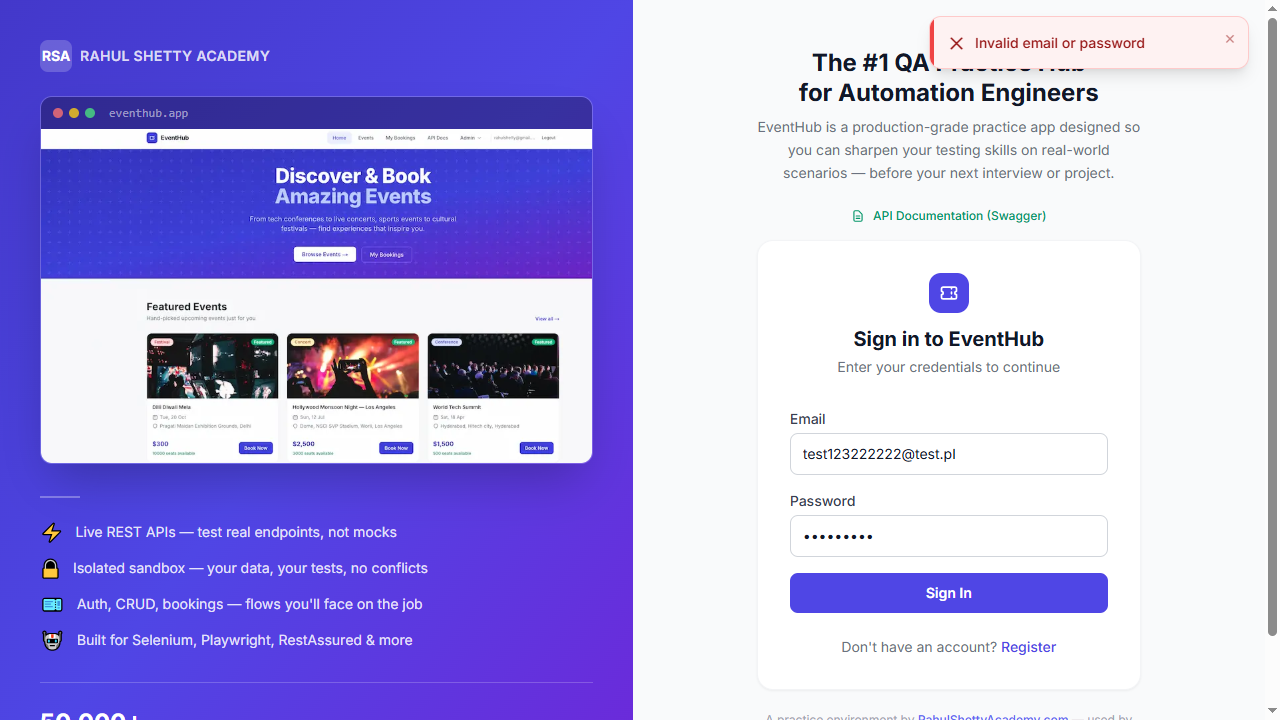
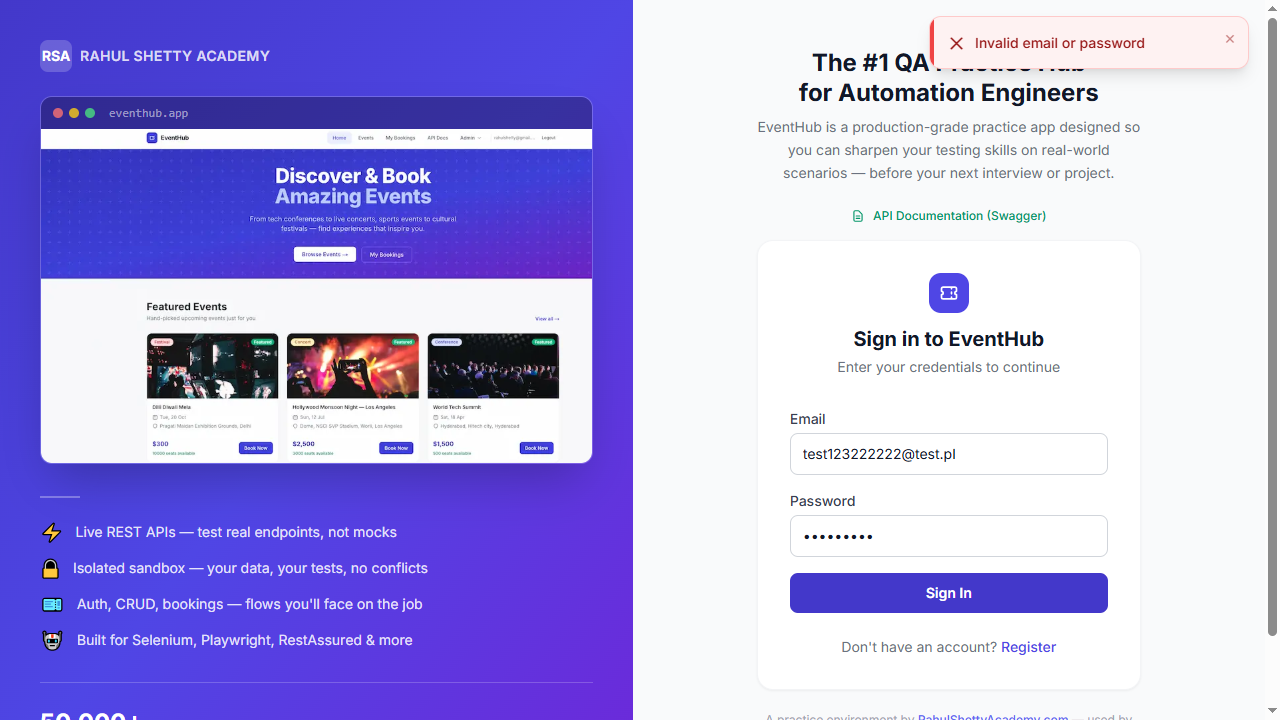
Path fix v2

Changed region(s): [[0.5938, 0.7944, 0.875, 0.8556]]

diff --git a/tests/eventhubOrder.spec.js b/tests/eventhubOrder.spec.js
@@ -1,4 +1,7 @@
 const { test, expect, request } = require("@playwright/test");
+const LoginPageAPI = require("../EventHubPO/EventHubAPI/LoginPageAPI");
+const LoginPage = require("../EventHubPO/LoginPage");
+const baseURLAPI = "https://api.eventhub.rahulshettyacademy.com/api/";
 const loginPayload = { email: "test123@email.com", password: "Test123!" };
 const AuthHelper = require("../EventHubPO/EventHubAPI/AuthHelper");
 let loginToken;
@@ -8,11 +11,15 @@ test.beforeAll(async () => {
     const apiContext = await request.newContext();
     const loginPageAPI = new LoginPageAPI(apiContext, loginPayload, baseURLAPI + "auth/login")
     loginToken = await loginPageAPI.getToken();
-    authHelper = new AuthHelper(page);
+    
 });
 
 
 test("Verify events on dashboard", async ({ page }) => {
-    await authHelper.loginToPage(page);
+    const authHelper = new AuthHelper(page, loginToken);
+    await authHelper.loginToPage();
+    const loginPage = new LoginPage(page);
+    await loginPage.goToBaseURL();
+    await expect(page).toHaveURL("/")
 
 });

diff --git a/tests/evenhubValidLoginAPI.spec.js b/tests/evenhubValidLoginAPI.spec.js
@@ -13,7 +13,7 @@ test.beforeAll(async () => {
     const loginPageAPI = new LoginPageAPI(apiContext, loginPayload, baseURLAPI + "auth/login");
     loginToken = await loginPageAPI.getToken();
     expect(loginToken).toBeTruthy();
-    authHelper = new AuthHelper(page);
+
 });
 
 test.afterAll(async () => {
@@ -21,11 +21,12 @@ test.afterAll(async () => {
 });
 
 test("User should access dashboard after API authentication", async ({ page }) => {
+    const authHelper = new AuthHelper(page, loginToken);
     await authHelper.loginToPage();
     const loginPage = new LoginPage(page);
     await loginPage.goToBaseURL();
     await expect(page).toHaveURL("/");
-    await expect(loginPage.mainDashboardBanner).toHaveText("Discover & BookAmazing Events");
+    await expect(loginPage.mainDashboardBanner).toHaveText("Amazing Events");
     await loginPage.takeScreenshot();
 });
 

diff --git a/EventHubPO/EventHubAPI/AuthHelper.js b/EventHubPO/EventHubAPI/AuthHelper.js
@@ -1,14 +1,14 @@
 class AuthHelper {
-
-    constructor(page) {
-        this.page = page
+    
+    constructor(page, loginToken) {
+        this.page = page;
+        this.loginToken = loginToken;
     }
 
-    async loginToPage(page) {
-        await page.addInitScript(value => {
-            window.localStorage.setItem("eventhub_token", value);
-        }, loginToken)
+    async loginToPage() {
+        await this.page.addInitScript(token => {
+            window.localStorage.setItem("eventhub_token", token);
+        }, this.loginToken);
     }
-
 }
 module.exports = AuthHelper;

diff --git a/EventHubPO/LoginPage.js b/EventHubPO/LoginPage.js
@@ -10,7 +10,7 @@ class LoginPage {
         this.emailMsg = page.getByText('Enter a valid email', { exact: true })
         this.pswdMsg = page.getByText('Password must be at least 6 characters', { exact: true })
         this.environmentInfoBtn = page.getByRole('link', { name: 'RahulShettyAcademy.com' });
-        this.mainDashboardBanner = page.locator("h1");
+        this.mainDashboardBanner = page.locator('span.text-indigo-200');
     }
 
     async goToBaseURL() {

diff --git a/tests/eventhubValidLogin.spec.js b/tests/eventhubValidLogin.spec.js
@@ -72,7 +72,7 @@ test("Login Validation with correct data", async ({ page }) => {
     await loginPage.goToBaseURL();
     await loginPage.loginToAccount(loginPayload);
     await expect(page).toHaveURL("/");
-    await expect(loginPage.mainDashboardBanner).toHaveText("Discover & BookAmazing Events");
+    await expect(loginPage.mainDashboardBanner).toHaveText("Amazing Events");
     await loginPage.takeScreenshot("valid-login");
 });
 

diff --git a/EventHubPO/EventHubAPI/LoginPageAPI.js b/EventHubPO/EventHubAPI/LoginPageAPI.js
@@ -15,6 +15,7 @@ class LoginPageAPI {
         } else {
             throw new Error(`Failed to get token: ${JSON.stringify(loginRespJson)}`);
         }
+        console.log("TOKEN SET", token);
     }
 }
 module.exports = LoginPageAPI;
